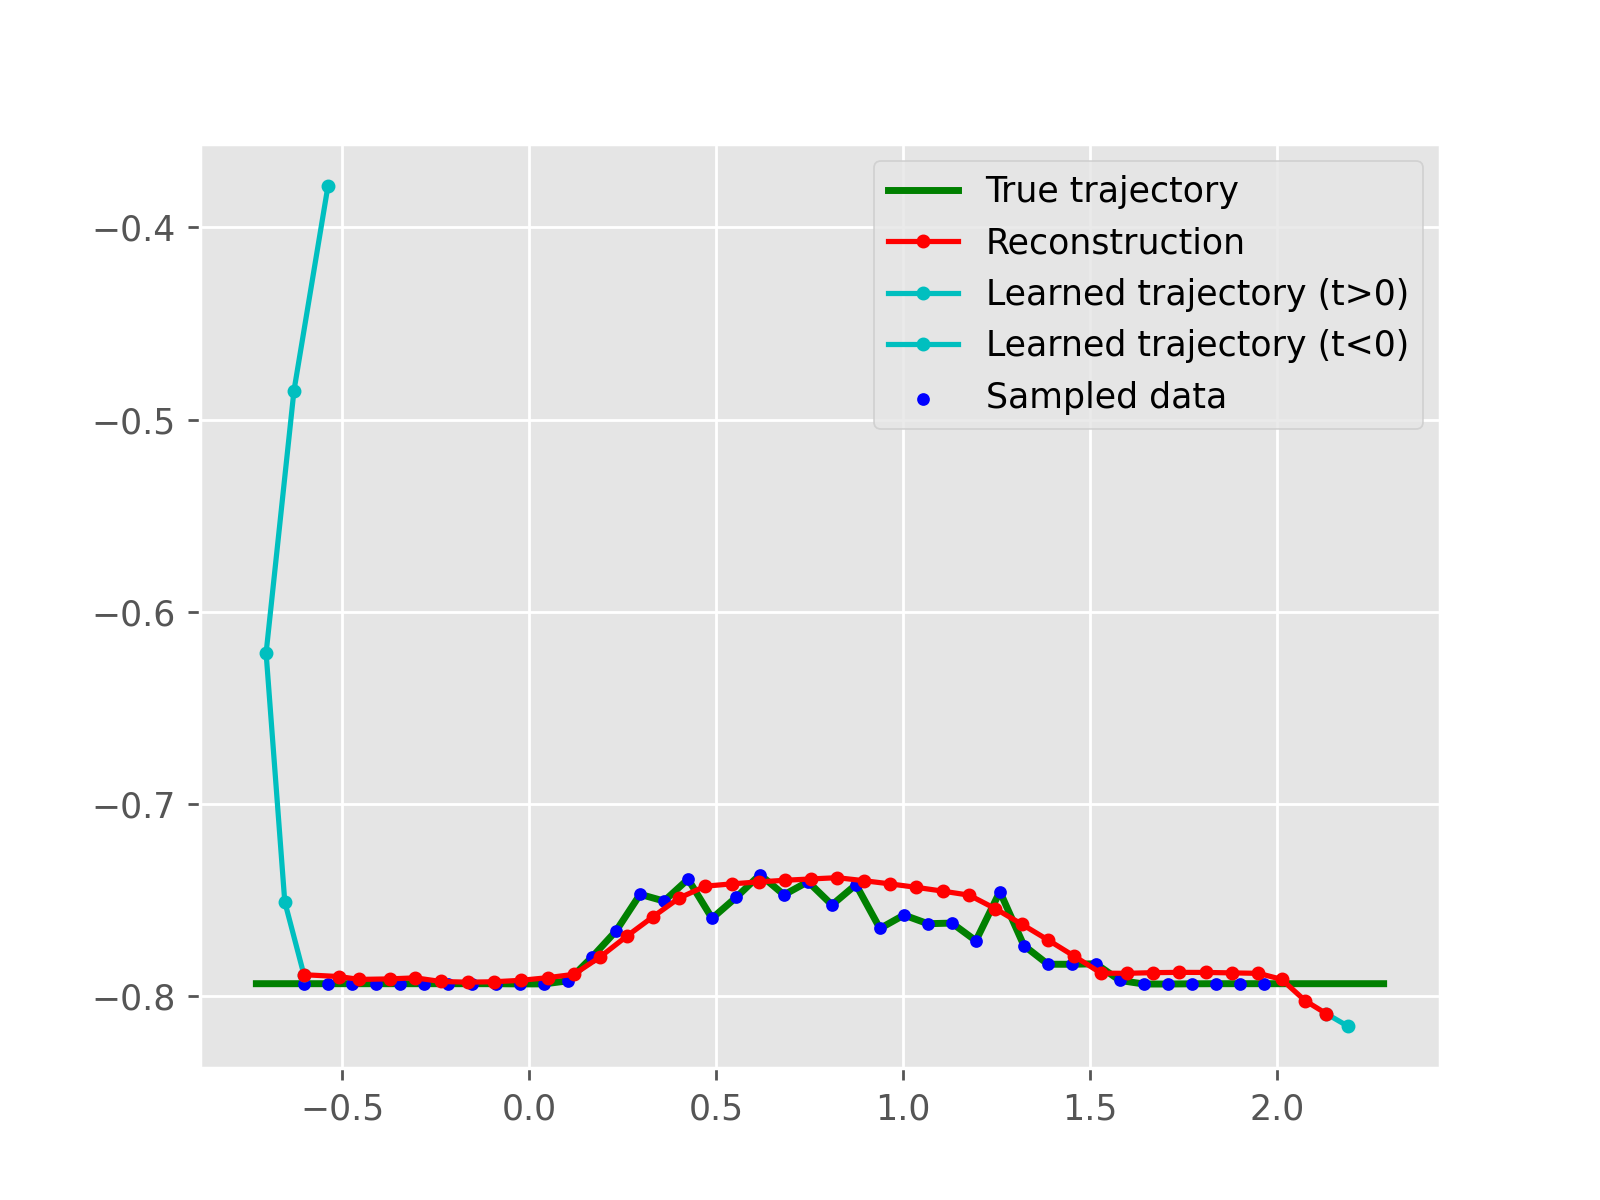
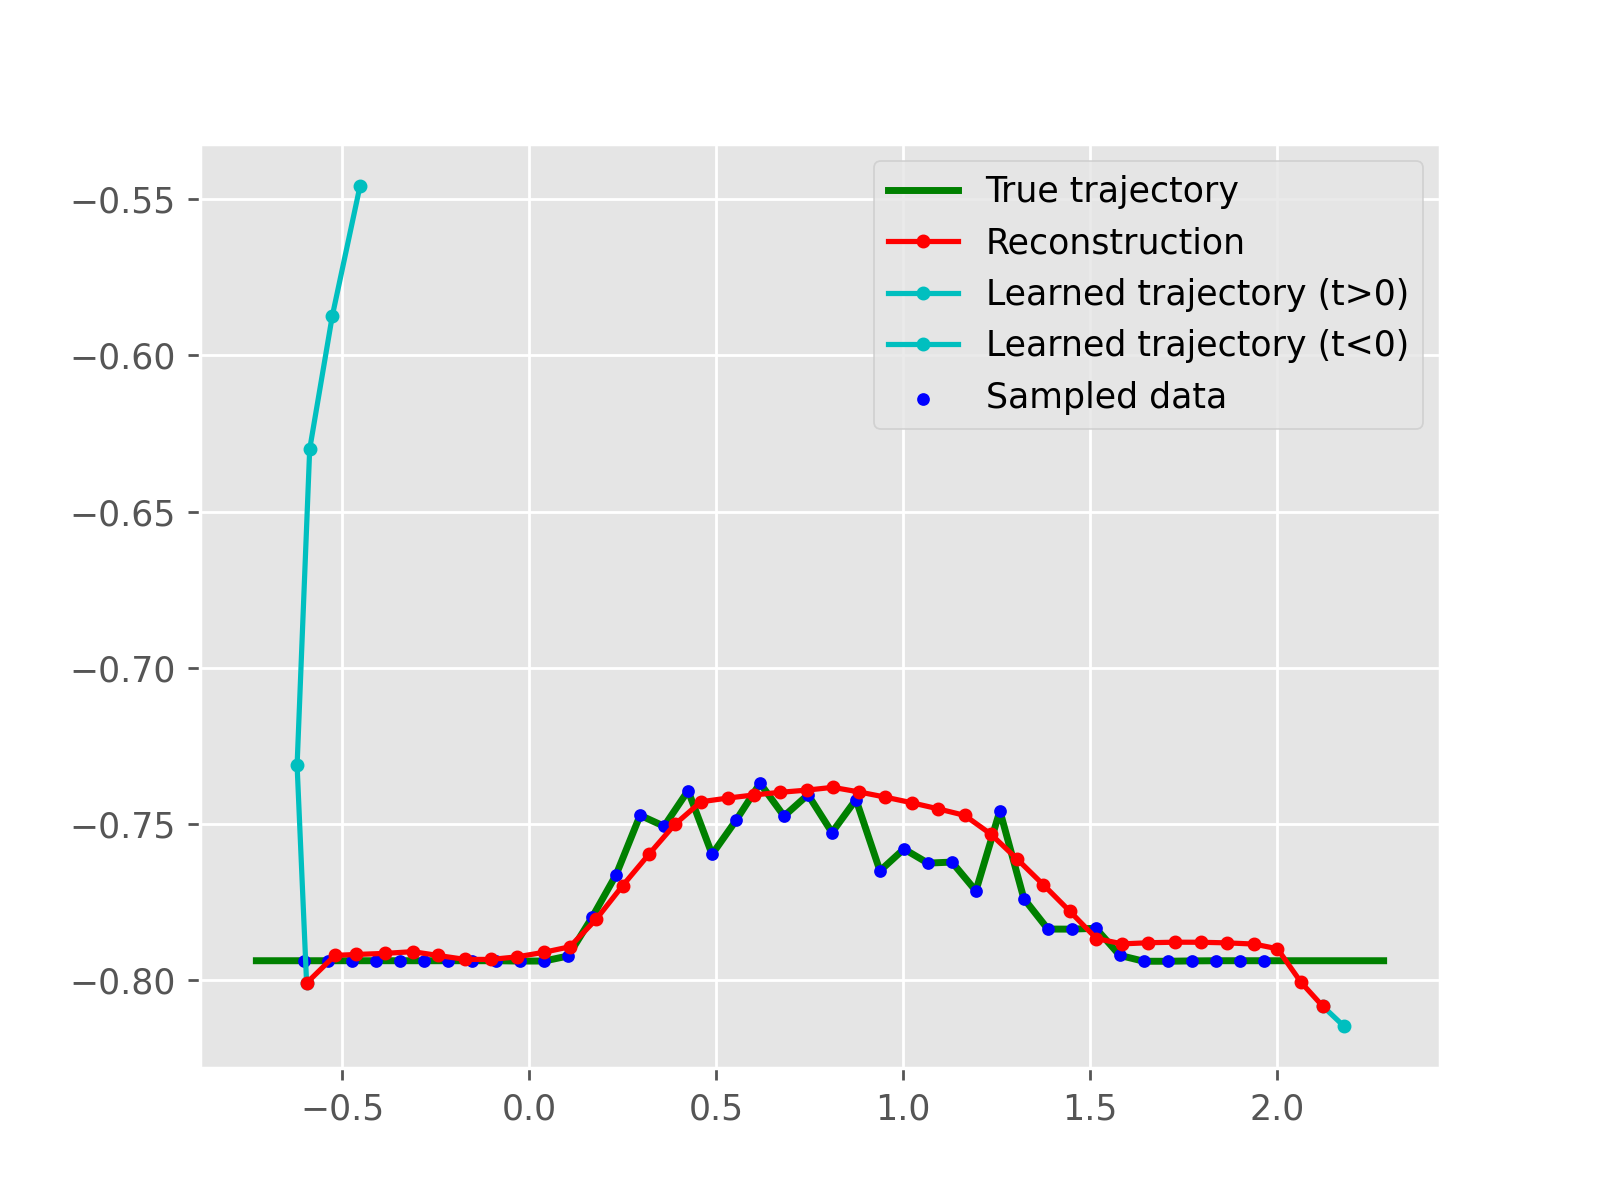
Add tanh activation to LSTM encoding

diff --git a/experiment/run_experiments.py b/experiment/run_experiments.py
@@ -20,55 +20,55 @@ def run(plot=True):
     # SPIRAL
     ##########################
 
-    # BASELINE
-    models_path.append('experiment/baseline_ckpt/toy/12_52_vfinal.pth')
-    models_class.append(LSTMAutoEncoder)
-    models_name.append('Toy_Baseline_AE')
-    # NEURAL ODE
-    models_path.append('experiment/final_ckpt/toy/12_23_v46.pth')
-    models_class.append(ODEAutoEncoder)
-    models_name.append('Toy_ODE_VAE')
-
-    ##########################
-    # SPRINGS
-    ##########################
-
-    # BASELINE
-    models_path.append('experiment/baseline_ckpt/spring/example1/15_56_vfinal.pth')  # ex1
-    models_path.append('experiment/baseline_ckpt/spring/example2/15_56_vfinal.pth')  # ex2
-    models_path.append('experiment/baseline_ckpt/spring/example3/12_03_vfinal.pth')  # ex3
-    models_path.append('experiment/baseline_ckpt/spring/example12/16_13_vfinal.pth')  # ex 1 2
-    models_path.append('experiment/baseline_ckpt/spring/example13/15_57_vfinal.pth')  # ex 1 3
-    models_path.append('experiment/baseline_ckpt/spring/example23/15_58_vfinal.pth')  # ex 2 3
-    models_path.append('experiment/baseline_ckpt/spring/example123/15_57_vfinal.pth')  # ex 1 2 3
-    for i in range(7):
-        models_class.append(LSTMAutoEncoder)
-    models_name.append('Spring_1_Baseline_AE')
-    models_name.append('Spring_2_Baseline_AE')
-    models_name.append('Spring_3_Baseline_AE')
-    models_name.append('Spring_12_Baseline_AE')
-    models_name.append('Spring_13_Baseline_AE')
-    models_name.append('Spring_23_Baseline_AE')
-    models_name.append('Spring_123_Baseline_AE')
-
-    # NEURAL ODE
-    models_path.append('experiment/final_ckpt/spring/example1/03_57_vfinal.pth')  # ex1
-    models_path.append('experiment/final_ckpt/spring/example2/02_32_vfinal.pth')  # ex2
-    models_path.append('experiment/final_ckpt/spring/example3/02_26_vfinal.pth')  # ex3
-    models_path.append('experiment/final_ckpt/spring/example12/01_05_vfinal.pth')  # ex 1 2
-    models_path.append('experiment/final_ckpt/spring/example13/03_06_vfinal.pth')  # ex 1 3
-    models_path.append('experiment/final_ckpt/spring/example23/02_29_vfinal.pth')  # ex 2 3
-    models_path.append('experiment/final_ckpt/spring/example123/01_56_vfinal.pth')  # ex 1 2 3
-
-    for i in range(7):
-        models_class.append(ODEAutoEncoder)
-    models_name.append('Spring_1_ODE_VAE')
-    models_name.append('Spring_2_ODE_VAE')
-    models_name.append('Spring_3_ODE_VAE')
-    models_name.append('Spring_12_ODE_VAE')
-    models_name.append('Spring_13_ODE_VAE')
-    models_name.append('Spring_23_ODE_VAE')
-    models_name.append('Spring_123_ODE_VAE')
+    # # BASELINE
+    # models_path.append('experiment/baseline_ckpt/toy/12_52_vfinal.pth')
+    # models_class.append(LSTMAutoEncoder)
+    # models_name.append('Toy_Baseline_AE')
+    # # NEURAL ODE
+    # models_path.append('experiment/final_ckpt/toy/12_23_v46.pth')
+    # models_class.append(ODEAutoEncoder)
+    # models_name.append('Toy_ODE_VAE')
+    #
+    # ##########################
+    # # SPRINGS
+    # ##########################
+    #
+    # # BASELINE
+    # models_path.append('experiment/baseline_ckpt/spring/example1/15_56_vfinal.pth')  # ex1
+    # models_path.append('experiment/baseline_ckpt/spring/example2/15_56_vfinal.pth')  # ex2
+    # models_path.append('experiment/baseline_ckpt/spring/example3/12_03_vfinal.pth')  # ex3
+    # models_path.append('experiment/baseline_ckpt/spring/example12/16_13_vfinal.pth')  # ex 1 2
+    # models_path.append('experiment/baseline_ckpt/spring/example13/15_57_vfinal.pth')  # ex 1 3
+    # models_path.append('experiment/baseline_ckpt/spring/example23/15_58_vfinal.pth')  # ex 2 3
+    # models_path.append('experiment/baseline_ckpt/spring/example123/15_57_vfinal.pth')  # ex 1 2 3
+    # for i in range(7):
+    #     models_class.append(LSTMAutoEncoder)
+    # models_name.append('Spring_1_Baseline_AE')
+    # models_name.append('Spring_2_Baseline_AE')
+    # models_name.append('Spring_3_Baseline_AE')
+    # models_name.append('Spring_12_Baseline_AE')
+    # models_name.append('Spring_13_Baseline_AE')
+    # models_name.append('Spring_23_Baseline_AE')
+    # models_name.append('Spring_123_Baseline_AE')
+    #
+    # # NEURAL ODE
+    # models_path.append('experiment/final_ckpt/spring/example1/03_57_vfinal.pth')  # ex1
+    # models_path.append('experiment/final_ckpt/spring/example2/02_32_vfinal.pth')  # ex2
+    # models_path.append('experiment/final_ckpt/spring/example3/02_26_vfinal.pth')  # ex3
+    # models_path.append('experiment/final_ckpt/spring/example12/01_05_vfinal.pth')  # ex 1 2
+    # models_path.append('experiment/final_ckpt/spring/example13/03_06_vfinal.pth')  # ex 1 3
+    # models_path.append('experiment/final_ckpt/spring/example23/02_29_vfinal.pth')  # ex 2 3
+    # models_path.append('experiment/final_ckpt/spring/example123/01_56_vfinal.pth')  # ex 1 2 3
+    #
+    # for i in range(7):
+    #     models_class.append(ODEAutoEncoder)
+    # models_name.append('Spring_1_ODE_VAE')
+    # models_name.append('Spring_2_ODE_VAE')
+    # models_name.append('Spring_3_ODE_VAE')
+    # models_name.append('Spring_12_ODE_VAE')
+    # models_name.append('Spring_13_ODE_VAE')
+    # models_name.append('Spring_23_ODE_VAE')
+    # models_name.append('Spring_123_ODE_VAE')
 
     ##########################
     # REAL

diff --git a/src/model.py b/src/model.py
@@ -121,6 +121,7 @@ class LSTMEncoder(nn.Module):
 
     def forward(self, x, h, c):
         hn, cn = self.lstm(x, (h, c))
+        hn = torch.tanh(hn)
         out = self.h2o(hn)
         return out, hn, cn
 
@@ -157,7 +158,9 @@ class LSTMBaseline(nn.Module):
         # Map inputs to hidden state from x -> h1
         # Map hidden state to latent dimension h1 -> h2
         hn1, cn1 = self.lstm(x, (h1, c1))
+        hn1 = torch.tanh(hn1)
         hn2, cn2 = self.lstm2(hn1, (h2, c2))
+        hn2 = torch.tanh(hn2)
         return hn1, cn1, hn2, cn2
 
     def forward_sequence(self, x, device):
